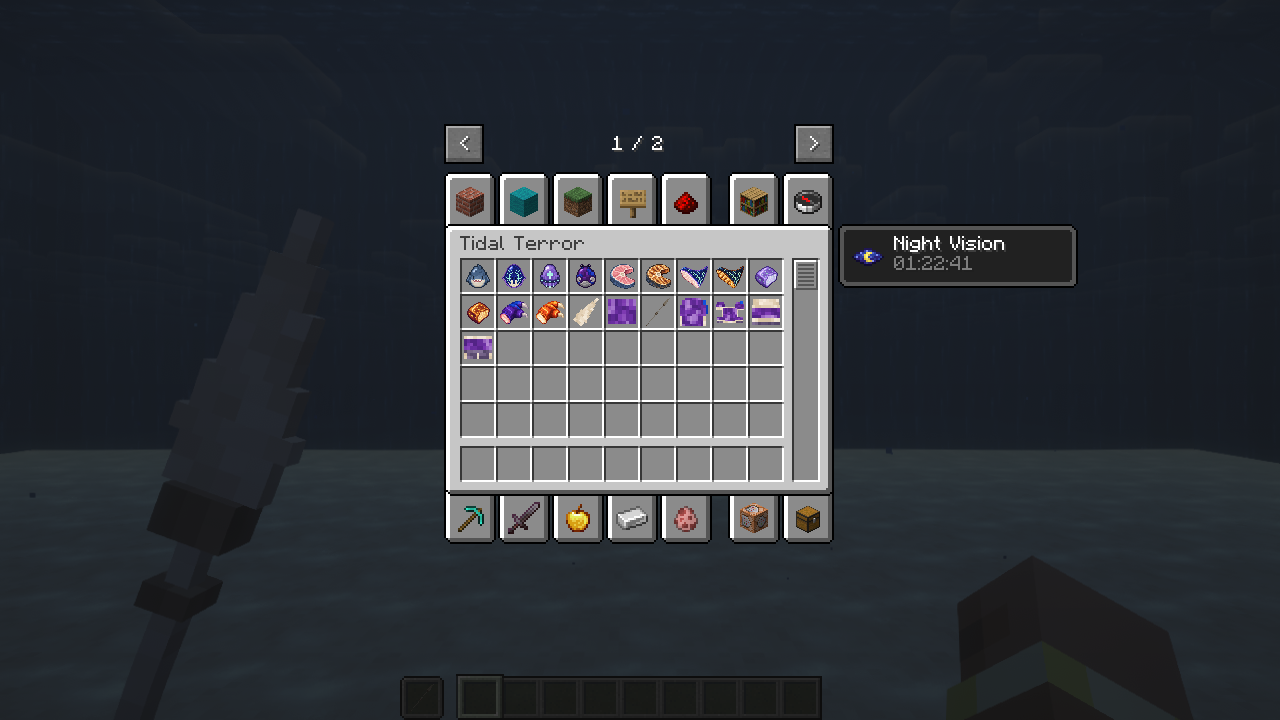
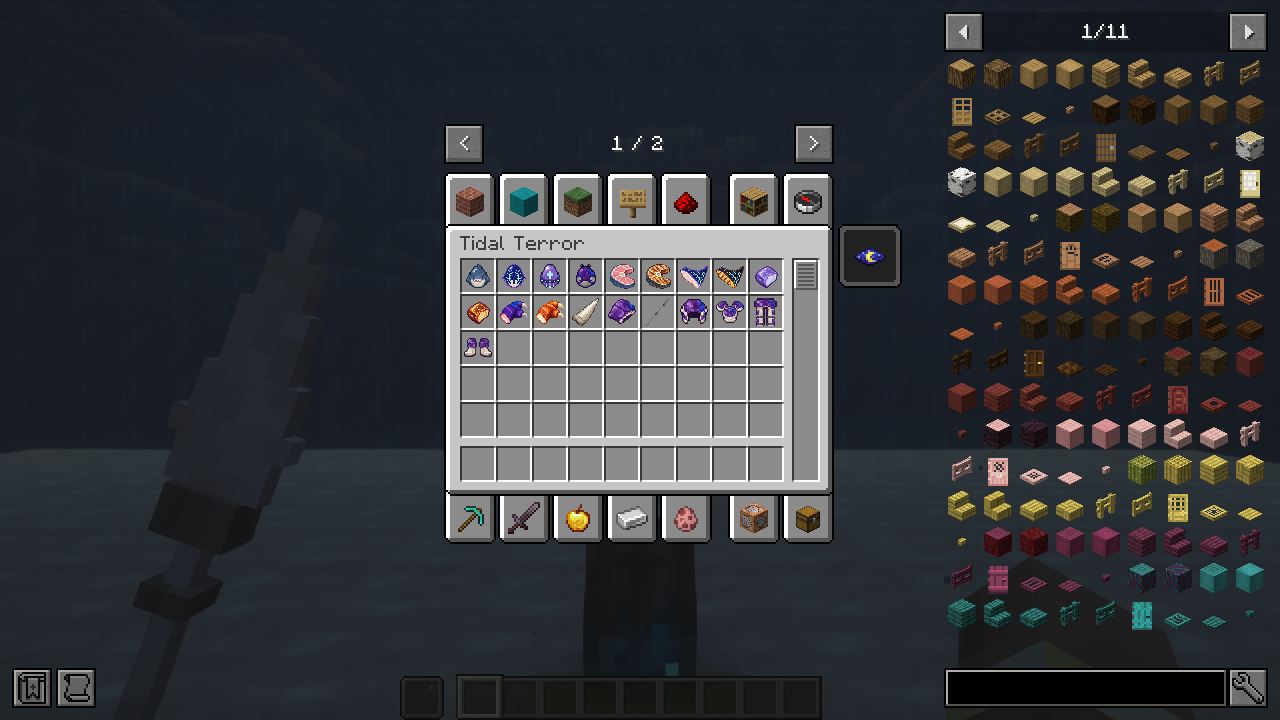
Verify native blood and JEI visuals and improve underwater readability

diff --git a/src/equipmentPreview/java/com/nhat/tidal_terror/preview/EquipmentPreview.java b/src/equipmentPreview/java/com/nhat/tidal_terror/preview/EquipmentPreview.java
@@ -124,8 +124,10 @@ public final class EquipmentPreview {
                         var target=net.minecraft.world.entity.EntityType.DROWNED.create(level);
                         target.setNoAi(true);target.setNoGravity(true);target.setPersistenceRequired();target.setPos(0,80,3);target.setYRot(180);
                         target.getAttribute(net.minecraft.world.entity.ai.attributes.Attributes.MAX_HEALTH).setBaseValue(100);target.setHealth(100);
-                        level.addFreshEntity(target);bloodTarget=target.getUUID();
-                        target.addEffect(new net.minecraft.world.effect.MobEffectInstance(com.nhat.tidal_terror.effects.ModEffects.REEF_BLEEDING.get(),400,3,false,false,true));
+                        if(!level.addFreshEntity(target))throw new IllegalStateException("Could not add blood preview target");
+                        bloodTarget=target.getUUID();
+                        if(!target.addEffect(new net.minecraft.world.effect.MobEffectInstance(com.nhat.tidal_terror.effects.ModEffects.REEF_BLEEDING.get(),400,3,false,false,true)))
+                            throw new IllegalStateException("Preview target rejected bleeding");
                         var spear=new ItemStack(ModEquipment.REEF_SPEAR.get());
                         spear.enchant(com.nhat.tidal_terror.enchantments.ModEnchantments.SERRATION.get(),3);
                         spear.enchant(com.nhat.tidal_terror.enchantments.ModEnchantments.HEMORRHAGE.get(),2);
@@ -154,8 +156,15 @@ public final class EquipmentPreview {
             if(stage==5&&!particleChecked) {
                 boolean found=false;
                 for(var entity:MC.level.entitiesForRendering())if(entity.getUUID().equals(bloodTarget)&&entity instanceof LivingEntity living)
-                    found=living.isAlive()&&living.hasEffect(com.nhat.tidal_terror.effects.ModEffects.REEF_BLEEDING.get());
+                    found=living.isAlive();
                 if(!found)throw new IllegalStateException("Bleeding preview target missing from client");
+                // Vanilla does not sync mob effect instances to observers. Verify the
+                // actual server-emitted blood reached the native client particle engine.
+                var field=MC.particleEngine.getClass().getDeclaredField("particles");field.setAccessible(true);
+                var queues=(java.util.Map<?,?>)field.get(MC.particleEngine);int blood=0;
+                for(var queue:queues.values())for(var p:(Iterable<?>)queue)if(p instanceof com.nhat.tidal_terror.client.BloodParticle)blood++;
+                if(blood==0)throw new IllegalStateException("Server blood particles never reached the client");
+                System.out.println("REEF_EQUIPMENT_PREVIEW BLOOD native particles="+blood);
                 var particle=MC.particleEngine.createParticle(com.nhat.tidal_terror.particles.ModParticles.BLOOD.get(),0,81,3,0,0,0);
                 if(!(particle instanceof com.nhat.tidal_terror.client.BloodParticle))throw new IllegalStateException("Blood particle provider missing after reload");
                 particleChecked=true;

diff --git a/tools/export_reef_sprites.py b/tools/export_reef_sprites.py
@@ -28,14 +28,14 @@ def main():
         tile = Image.new('RGBA', (16, 16))
         draw = ImageDraw.Draw(tile)
         if stage == 0:
-            draw.rectangle((7, 3, 8, 10), fill=(148, 12, 24, 255))
-            draw.rectangle((5, 7, 10, 11), fill=(176, 18, 31, 255))
-            draw.rectangle((6, 8, 7, 10), fill=(220, 48, 53, 255))
+            draw.rectangle((7, 3, 8, 10), fill=(185, 12, 24, 255))
+            draw.rectangle((5, 7, 10, 11), fill=(208, 18, 31, 255))
+            draw.rectangle((6, 8, 7, 10), fill=(245, 48, 53, 255))
             draw.rectangle((7, 12, 8, 12), fill=(112, 8, 20, 255))
         else:
             for x,y in ((6,6),(9,7),(7,10),(11,10),(4,9)):
                 r=1 if stage==1 else 0
-                draw.rectangle((x-r,y-r,x+r,y+r), fill=(155, 15, 28, 180 if stage==1 else 110))
+                draw.rectangle((x-r,y-r,x+r,y+r), fill=(208, 15, 28, 210 if stage==1 else 150))
         tile.save(folder/f'blood_{stage}.png')
     (RES/'particles').mkdir(exist_ok=True)
     (RES/'particles/blood.json').write_text(json.dumps({'textures':[f'tidalterror:blood_{i}' for i in range(3)]}, indent=2)+'\n')

diff --git a/src/main/java/com/nhat/tidal_terror/client/BloodParticle.java b/src/main/java/com/nhat/tidal_terror/client/BloodParticle.java
@@ -15,7 +15,7 @@ public final class BloodParticle extends TextureSheetParticle {
         this.sprites = sprites;
         xd = dx; yd = dy; zd = dz;
         setSize(.02F, .02F);
-        quadSize = initialSize = .045F + random.nextFloat() * .035F;
+        quadSize = initialSize = .09F + random.nextFloat() * .05F;
         lifetime = 28 + random.nextInt(17);
         hasPhysics = true;
         setSpriteFromAge(sprites);
@@ -30,7 +30,7 @@ public final class BloodParticle extends TextureSheetParticle {
         xd *= drag; yd *= drag; zd *= drag;
         float progress = (float) age / lifetime;
         quadSize = initialSize * (water ? 1 + 1.8F * progress : 1);
-        alpha = (water ? .85F : 1) * (1 - progress) * (1 - progress);
+        alpha = (water ? .95F : 1) * Math.min(1, 2 * (1 - progress));
         setSpriteFromAge(sprites);
     }
     @Override public ParticleRenderType getRenderType() { return ParticleRenderType.PARTICLE_SHEET_TRANSLUCENT; }

diff --git a/docs/Reef-Sprites-and-Bleeding.md b/docs/Reef-Sprites-and-Bleeding.md
@@ -54,3 +54,17 @@ the [official JEI setup for Minecraft 1.20.1](https://github.com/mezz/JustEnough
 It is excluded from native server test runs and is not declared as a required
 mod dependency or bundled into the released JAR. All five shaped equipment
 recipes use vanilla crafting and are discovered by JEI without a custom plugin.
+
+## Verified native client
+
+On 2026-10-05, the isolated client completed seven actual framebuffer captures:
+native worn armor, first-person spear in both hands, the creative tab, resource
+reload with glint, bleeding with Complementary/Oculus, and the JEI inventory.
+The blood check verified a living visible target, 41 server-emitted custom blood
+particles in the native client particle engine, and the registered provider
+after full resource reload. The production JAR and all 13 release-tooling tests
+also passed locally. Eight equipment GameTests passed locally and in CI.
+
+![Native underwater blood](assets/reef-icons/blood-native.png)
+
+![Native JEI and equipment icons](assets/reef-icons/jei-native.png)
